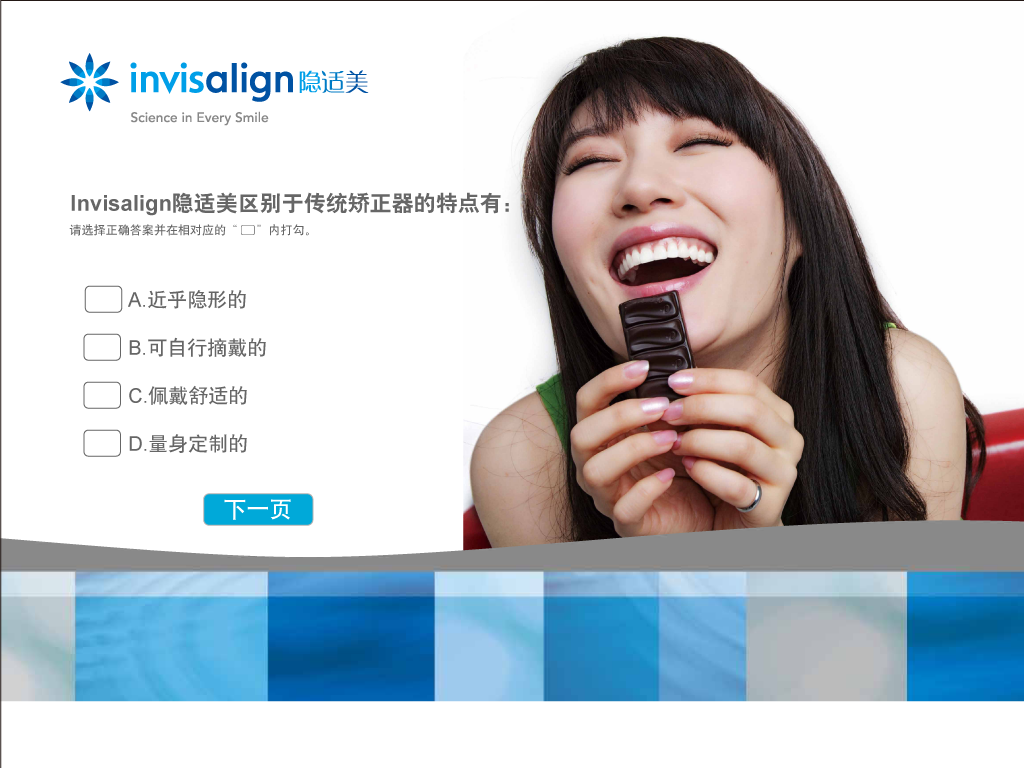
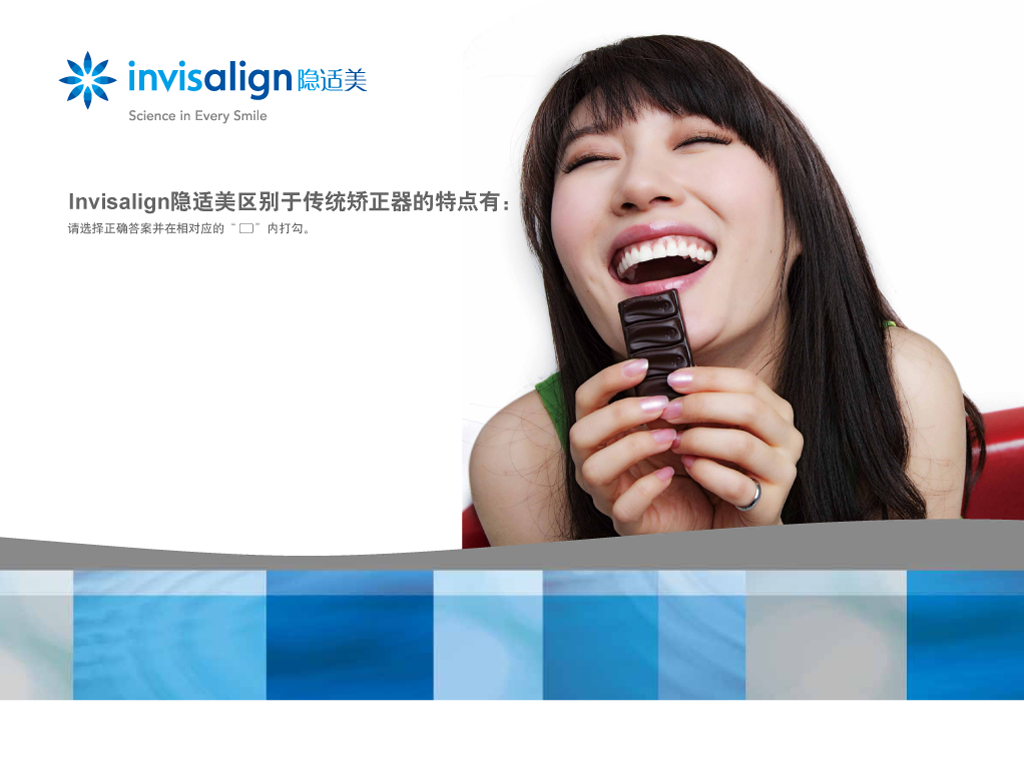
checkbox特效

diff --git a/js/libs/customInput.jquery.js b/js/libs/customInput.jquery.js
@@ -1,0 +1,68 @@
+/*-------------------------------------------------------------------- 
+ * jQuery plugin: customInput()
+ * by Maggie Wachs and Scott Jehl, http://www.filamentgroup.com
+ * Copyright (c) 2009 Filament Group
+ * Dual licensed under the MIT (filamentgroup.com/examples/mit-license.txt) and GPL (filamentgroup.com/examples/gpl-license.txt) licenses.
+ * Article: http://www.filamentgroup.com/lab/accessible_custom_designed_checkbox_radio_button_inputs_styled_css_jquery/  
+ * Usage example below (see comment "Run the script...").
+--------------------------------------------------------------------*/
+
+
+jQuery.fn.customInput = function(){
+	$(this).each(function(i){	
+		if($(this).is('[type=checkbox],[type=radio]')){
+			var input = $(this);
+			
+			// get the associated label using the input's id
+			var label = $('label[for='+input.attr('id')+']');
+			
+			//get type, for classname suffix 
+			var inputType = (input.is('[type=checkbox]')) ? 'checkbox' : 'radio';
+			
+			// wrap the input + label in a div 
+			$('<div class="custom-'+ inputType +'"></div>').insertBefore(input).append(input, label);
+			
+			// find all inputs in this set using the shared name attribute
+			var allInputs = $('input[name='+input.attr('name')+']');
+			
+			// necessary for browsers that don't support the :hover pseudo class on labels
+			label.hover(
+				function(){ 
+					$(this).addClass('hover'); 
+					if(inputType == 'checkbox' && input.is(':checked')){ 
+						$(this).addClass('checkedHover'); 
+					} 
+				},
+				function(){ $(this).removeClass('hover checkedHover'); }
+			);
+			
+			//bind custom event, trigger it, bind click,focus,blur events					
+			input.bind('updateState', function(){	
+				if (input.is(':checked')) {
+					if (input.is(':radio')) {				
+						allInputs.each(function(){
+							$('label[for='+$(this).attr('id')+']').removeClass('checked');
+						});		
+					};
+					label.addClass('checked');
+				}
+				else { label.removeClass('checked checkedHover checkedFocus'); }
+										
+			})
+			.trigger('updateState')
+			.click(function(){ 
+				$(this).trigger('updateState'); 
+			})
+			.focus(function(){ 
+				label.addClass('focus'); 
+				if(inputType == 'checkbox' && input.is(':checked')){ 
+					$(this).addClass('checkedFocus'); 
+				} 
+			})
+			.blur(function(){ label.removeClass('focus checkedFocus'); });
+		}
+	});
+};
+
+	
+	

diff --git a/page6.html b/page6.html
@@ -17,6 +17,7 @@
   <link rel="shortcut icon" href="/favicon.ico">
   <link rel="apple-touch-icon" href="/apple-touch-icon.png">
   <link rel="stylesheet" href="css/style.css?v=2">
+  <link rel="stylesheet" type="text/css" href="css/checkbox.css" /> 
 
   <!-- All JavaScript at the bottom, except for Modernizr which enables HTML5 elements & feature detects -->
   <script src="js/libs/modernizr-1.7.min.js"></script>
@@ -24,8 +25,24 @@
 </head>
 
 <body class="page" id="index">	
-  <div class="container page11">
-  	<a class="back absolute" href="#"><img src="img/btn_back.png"></a>
+  <div class="container page6">
+  	<form>	
+	<fieldset> 
+		<input type="checkbox" name="genre" id="check-1" value="action" /> 
+		<label for="check-1">A.近乎隐形的</label> 
+		
+		<input type="checkbox" name="genre" id="check-2" value="comedy" /> 
+		<label for="check-2">B.可自行摘戴的</label> 
+		
+		<input type="checkbox" name="genre" id="check-3" value="epic" /> 
+		<label for="check-3">C.佩戴舒适的</label> 
+		
+		<input type="checkbox" name="genre" id="check-4" value="science" /> 
+		<label for="check-4">D.量身定制的</label> 
+
+	</fieldset> 
+</form> 
+  	<a class="next absolute" href="#"><img src="img/btn_next.png"></a>
   </div>
   <!-- JavaScript at the bottom for fast page loading -->
   <!-- Grab Google CDN's jQuery, with a protocol relative URL; fall back to local if necessary -->
@@ -36,21 +53,14 @@
   <!-- scripts concatenated and minified via ant build script-->
   <script src="js/plugins.js"></script>
   <script src="js/script.js"></script>
-    <script type="text/javascript"> 
-    $(function(){
-		$('.mainnav').hover(function(event){
-			event.type=='mouseenter' ? 
-			$(".subnav,.nav-1 li .level2").show():
-			$(".subnav,.nav-1 li .level2").hide();
-		});
-		$('.nav-1 > li').hover(function(event){
-			$('.nav-1 > li').removeClass('current');
-			event.type=='mouseenter' ? 
-			$(this).addClass('current'):
-			$(this).removeClass('current');
+<script type="text/javascript" src="js/libs/customInput.jquery.js"></script>
+<script type="text/javascript"> 
+	// Run the script on DOM ready:
+	$(function(){
+		$('input').customInput();
 	});
-    });
-  </script>
+	</script>
+	
    <!-- end scripts-->
 
 

diff --git a/css/checkbox.css b/css/checkbox.css
@@ -1,0 +1,72 @@
+/*	CSS for customized radio buttons and check boxes */
+
+/* page styles */
+fieldset { 
+	border: 0;
+}
+
+legend {
+	font-size: 1.4em;
+	font-weight: bold;
+	padding: .2em 5px;
+}
+
+	
+/*	wrapper divs */
+.custom-checkbox, .custom-radio { position: relative; }
+	
+/* input, label positioning */
+.custom-checkbox input, 
+.custom-radio input {
+	position: absolute;
+	left: 2px;
+	top: 3px;
+	margin: 0;
+	z-index: 0;
+}
+
+.custom-checkbox label, 
+.custom-radio label {
+	display: block;
+	position: relative;
+	z-index: 1;
+	font-size: 20px;
+	padding-right: 1em;
+	line-height: 1;
+	padding: .5em 0 .5em 30px;
+	margin: 0 0 .3em;
+	cursor: pointer;
+	font-family:Arial,simhei;
+}
+
+	
+/* states */
+.custom-checkbox label { background: url(../img/checkbox.gif) no-repeat; }
+
+.custom-radio label { background: url(img/radiobutton.gif) no-repeat; }
+
+.custom-checkbox label, .custom-radio label {
+	background-position: -10px -7px;
+}
+
+.custom-checkbox label.hover,
+.custom-checkbox label.focus,
+.custom-radio label.hover,
+.custom-radio label.focus {
+	background-position: -10px -107px;
+}
+
+.custom-checkbox label.checked, 
+.custom-radio label.checked {
+	background-position: -10px -207px;
+}
+
+.custom-checkbox label.checkedHover, 
+.custom-checkbox label.checkedFocus {
+	background-position: -10px -307px;
+}
+
+.custom-checkbox label.focus, 
+.custom-radio label.focus {
+	outline: 1px dotted #ccc;
+}

diff --git a/page5.html b/page5.html
@@ -35,22 +35,7 @@
   <!-- scripts concatenated and minified via ant build script-->
   <script src="js/plugins.js"></script>
   <script src="js/script.js"></script>
-    <script type="text/javascript"> 
-    $(function(){
-		$('.mainnav').hover(function(event){
-			event.type=='mouseenter' ? 
-			$(".subnav,.nav-1 li .level2").show():
-			$(".subnav,.nav-1 li .level2").hide();
-		});
-		$('.nav-1 > li').hover(function(event){
-			$('.nav-1 > li').removeClass('current');
-			event.type=='mouseenter' ? 
-			$(this).addClass('current'):
-			$(this).removeClass('current');
-	});
-    });
-  </script>
-   <!-- end scripts-->
+      <!-- end scripts-->
 
 
 

diff --git a/css/style.css b/css/style.css
@@ -197,10 +197,12 @@ body{background:#fff;font-family:Arial,Helvetica,sans-serif,simhei;font-size:12p
 .page3{background: url('../img/3.png') no-repeat 0 0;}
 .page4{background: url('../img/4.png') no-repeat 0 0;}
 .page5{background: url('../img/5.png') no-repeat 0 0;}
+.page6{background: url('../img/6.png') no-repeat 0 0;}
 .page11{background: url('../img/11.png') no-repeat 0 0;}
 .start{top:413px;left:262px;}
 .back{top:492px;left:216px;}
-
+.next{top:490px;left:201px;}
+.container form{position:absolute;left:75px;top:283px;}
 
 
 /**

diff --git a/index.html b/index.html
@@ -25,7 +25,7 @@
 
 <body class="page" id="index">	
   <div class="container page1">
-  	<a class="start relative" href="#"><img src="img/btn_start.png" width="111" height="34" alt="Start"></a>
+  	<a class="start absolute" href="#"><img src="img/btn_start.png" width="111" height="34" alt="Start"></a>
   </div>
   <!-- JavaScript at the bottom for fast page loading -->
   <!-- Grab Google CDN's jQuery, with a protocol relative URL; fall back to local if necessary -->
